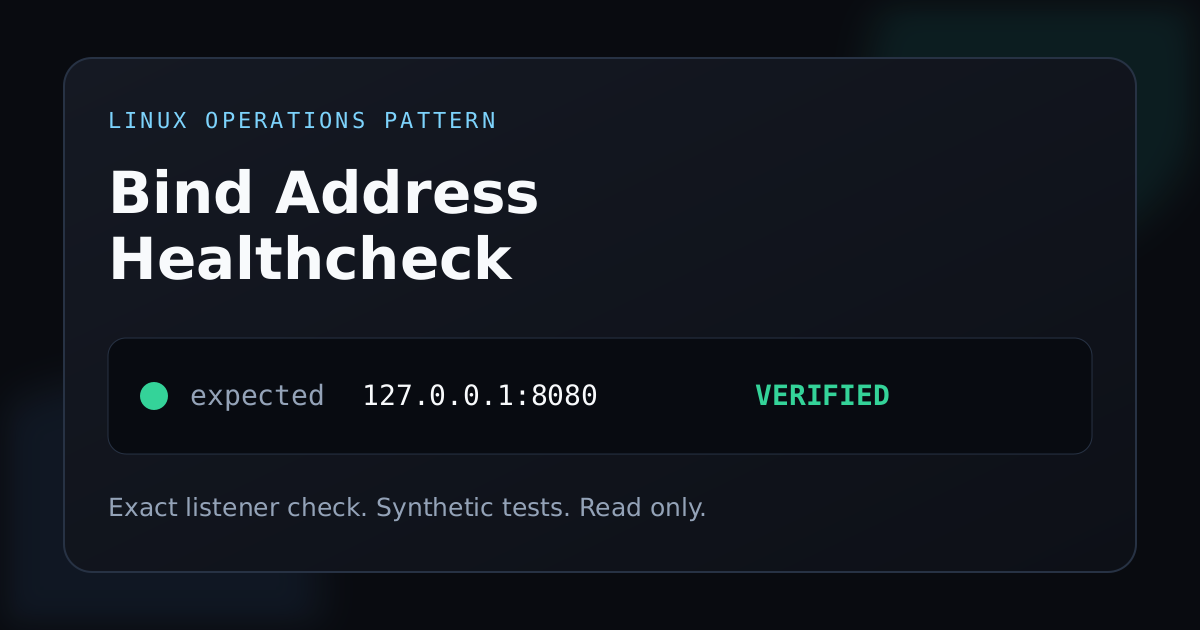
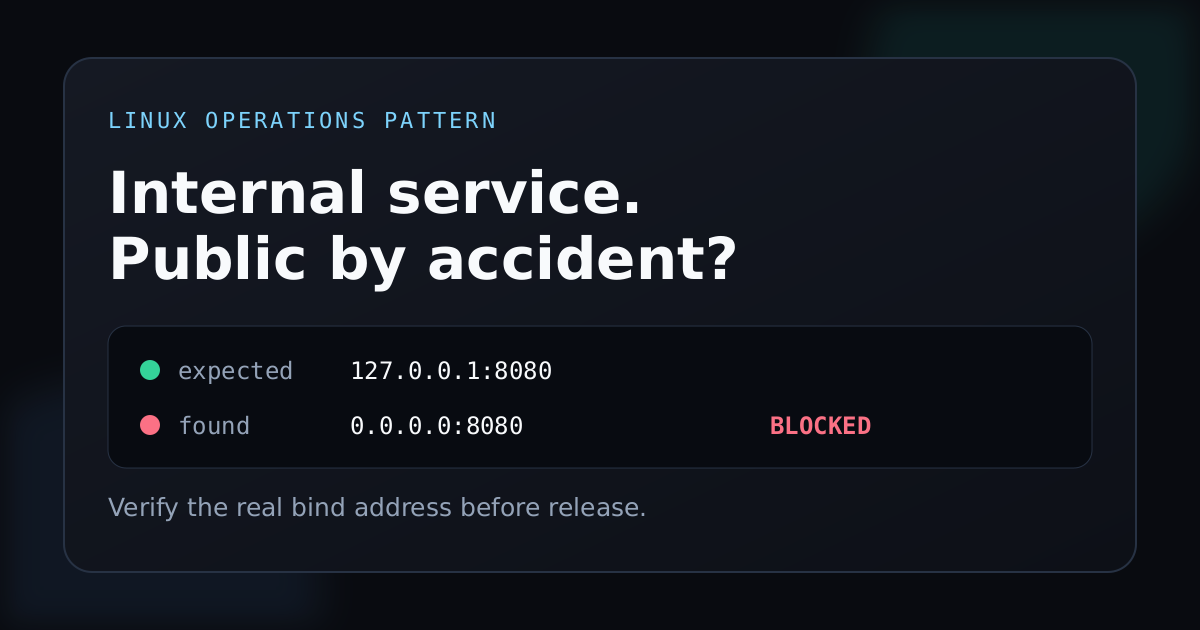
docs: explain bind risk in plain language

diff --git a/README.ru.md b/README.ru.md
@@ -1,40 +1,25 @@
-# Проверка bind address сервиса
+# Внутренний сервис случайно не открыт наружу?
 
-Проверяет, что Linux сервис слушает именно тот TCP адрес и порт, которые были запланированы.
+Небольшая проверка для Linux, которая перед запуском подтверждает фактический TCP адрес и порт сервиса.
 
 [English version](README.md)
 
-![Bind Address Healthcheck: ожидаемый localhost и подтверждённый listener](assets/social-preview.png)
+![Проверка внутреннего сервиса: ожидался локальный адрес, публичная привязка заблокирована](assets/social-preview.png)
 
-## Зачем
+## Проблема простыми словами
 
-Процесс может считаться здоровым, хотя слушает не тот интерфейс. Сервис для локального reverse proxy способен случайно открыться на `0.0.0.0`. Другой типовой сбой: приложение стартовало на соседнем порту, а поверхностный healthcheck всё равно оказался зелёным.
+Многие приложения работают за Caddy, Nginx или другим обратным прокси. Само приложение при этом должно принимать подключения только внутри сервера.
 
-`check-bind` читает таблицу TCP listeners через `ss` и завершается ошибкой, если на выбранном порту найден адрес, отличный от ожидаемого.
+| Адрес | Что это означает |
+|---|---|
+| `127.0.0.1:8080` | Подключиться могут только процессы на этом сервере. |
+| `0.0.0.0:8080` | Сервис слушает все доступные сетевые интерфейсы. |
 
-## Что входит
+В обоих случаях приложение может отвечать и считаться исправным. Поэтому обычная проверка здоровья останется зелёной, даже если сервис доступен шире, чем планировалось.
 
-1. Bash скрипт без сторонних зависимостей.
-2. Точное сравнение IPv4 и IPv6 адресов.
-3. Отдельное обнаружение wildcard и дополнительных listeners.
-4. Проверка сохранённого снимка `ss` без обращения к системе.
-5. Детерминированные тесты на синтетических данных.
+`check-bind` спрашивает ядро Linux, какой адрес действительно слушает порт. Если фактический адрес отличается от ожидаемого, проверка завершается ошибкой.
 
-## Что не входит
-
-Инструмент не проверяет ответ приложения, правила firewall, сетевые пространства контейнеров и удалённую доступность. В репозитории нет боевых доступов, клиентских данных, деталей приватной инфраструктуры и окружающей системы оркестрации.
-
-## Как это работает
-
-```mermaid
-flowchart LR
-    A[Ожидаемый адрес и порт] --> B[Чтение таблицы ss]
-    B --> C{Найден только точный listener?}
-    C -->|Да| D[Exit 0]
-    C -->|Нет| E[Exit 1 с причиной]
-```
-
-## Быстрый старт
+## Проверка за 30 секунд
 
 Нужны Linux, Bash 4 или новее и команда `ss` из пакета `iproute2`.
 
@@ -43,21 +28,46 @@ chmod +x bin/check-bind
 ./bin/check-bind --address 127.0.0.1 --port 8080
 ```
 
-Успешный результат:
+Безопасный результат:
 
 ```text
 PASS: 127.0.0.1:8080 is the only listener on TCP port 8080
 ```
 
-Случайный wildcard bind блокируется:
+Сервис слушает все интерфейсы:
 
 ```text
 FAIL: wildcard listener 0.0.0.0:8080 conflicts with expected 127.0.0.1:8080
 ```
 
-## Проверка по снимку
+## Какие ошибки обнаруживаются
 
-Режим снимка удобен для тестов и разбора инцидентов. Команда `ss` в нём не запускается.
+1. Сервис слушает `0.0.0.0` вместо локального адреса.
+2. Сервис запустился на другом порту.
+3. На том же порту появился дополнительный слушающий адрес.
+4. Фактический IPv4 или IPv6 адрес отличается от ожидаемого.
+
+## Что находится в репозитории
+
+1. Bash скрипт без сторонних зависимостей.
+2. Синтетические примеры без производственных данных.
+3. Проверка по сохранённому выводу `ss` без обращения к системе.
+4. Девять детерминированных проверок поведения и безопасности.
+5. Описанный способ удаления инструмента.
+
+## Как это работает
+
+```mermaid
+flowchart LR
+    A[Ожидаемый адрес и порт] --> B[Чтение таблицы Linux]
+    B --> C{Найден только ожидаемый адрес?}
+    C -->|Да| D[Проверка пройдена]
+    C -->|Нет| E[Ошибка с причиной]
+```
+
+## Проверка по сохранённому выводу
+
+Этот режим удобен для тестов и разбора инцидентов. Команда `ss` в нём не запускается.
 
 ```bash
 ./bin/check-bind \
@@ -68,30 +78,31 @@ FAIL: wildcard listener 0.0.0.0:8080 conflicts with expected 127.0.0.1:8080
 
 Значение `--snapshot -` читает стандартный ввод.
 
-## Тесты
+## Запуск тестов
 
 ```bash
 make test
 ```
 
-Проверяются точные IPv4 и IPv6 listeners, wildcard, другой конкретный адрес, отсутствующий порт, некорректный ввод и враждебный текст снимка.
+Тесты проверяют точные IPv4 и IPv6 адреса, прослушивание всех интерфейсов, другой конкретный адрес, отсутствующий порт, некорректный ввод и поддельный снимок с управляющим текстом.
 
 ## Коды завершения
 
 | Код | Значение |
 |---:|---|
-| `0` | На выбранном порту найден только ожидаемый listener. |
-| `1` | Listener отсутствует либо найден wildcard или дополнительный адрес. |
-| `2` | Некорректны аргументы, снимок или обязательная системная команда. |
+| `0` | На выбранном порту найден только ожидаемый адрес. |
+| `1` | Порт не слушается либо найден общий или дополнительный адрес. |
+| `2` | Некорректны аргументы, сохранённый вывод или обязательная системная команда. |
 
 ## Ограничения
 
-1. `ss` видит только текущее сетевое пространство. Для контейнера проверку следует запускать внутри нужного network namespace.
-2. Имена хостов не разрешаются. Следует передавать буквальный адрес из вывода `ss`.
+1. `ss` видит только текущее сетевое пространство. Для контейнера проверку нужно запускать внутри его пространства сети.
+2. Имена хостов не преобразуются в IP. Следует передавать буквальный адрес из вывода `ss`.
 3. UDP пока не поддерживается.
-4. Успешная проверка bind не доказывает, что приложение отдаёт правильный ответ.
+4. Успешная проверка адреса не доказывает, что приложение отдаёт правильный ответ.
+5. Инструмент дополняет настройки сетевого экрана и обратного прокси, но не заменяет их.
 
-## Откат
+## Удаление
 
 Проверка ничего не изменяет в системе. Если файл был установлен глобально, достаточно удалить его:
 
@@ -99,13 +110,13 @@ make test
 sudo rm /usr/local/bin/check-bind
 ```
 
-Удаление инструмента не меняет listeners, firewall и конфигурацию сервиса.
+Удаление инструмента не меняет сетевые подключения, правила доступа и конфигурацию сервиса.
 
 ## Граница безопасности
 
-Скрипт запускает только фиксированную команду `ss -H -ltn`. Адрес и порт валидируются до сравнения. Снимок считается данными и никогда не исполняется.
+Скрипт запускает только фиксированную команду `ss -H -ltn`. Адрес и порт валидируются до сравнения. Сохранённый вывод считается данными и никогда не исполняется.
 
-Это один слой проверки, а не доказательство полной безопасности сервера.
+В репозитории нет рабочих доступов, клиентских данных, деталей приватной инфраструктуры и окружающей системы автоматизации.
 
 Правила ответственного сообщения об уязвимости находятся в [SECURITY.md](SECURITY.md).
 

diff --git a/README.md b/README.md
@@ -1,40 +1,25 @@
-# Bind Address Healthcheck
+# Is your internal service exposed by mistake?
 
-Verify that a Linux TCP service is listening on the exact address and port you intended.
+A read only Linux check that confirms the real TCP address and port before a service goes live.
 
 [Русская версия](README.ru.md)
 
-![Bind Address Healthcheck: expected localhost, verified listener](assets/social-preview.png)
+![Internal service exposed by mistake: expected localhost, public bind blocked](assets/social-preview.png)
 
-## Why
+## The problem in plain language
 
-A process can be healthy while listening on the wrong interface. A service intended for a local reverse proxy may accidentally bind to `0.0.0.0`, or it may start on a different port while a shallow healthcheck still reports success.
+Many applications run behind Caddy, Nginx or another reverse proxy. The application is expected to accept connections only from the same server.
 
-`check-bind` reads the kernel listener table through `ss` and fails unless every listener on the selected port matches the expected address.
+| Address | What it means |
+|---|---|
+| `127.0.0.1:8080` | Only processes on this server can connect. |
+| `0.0.0.0:8080` | The service listens on every available network interface. |
 
-## What this repository includes
+Both versions can return a healthy application response. A normal healthcheck may therefore stay green even when the service is reachable more broadly than intended.
 
-1. A dependency free Bash checker for Linux.
-2. Exact IPv4 and IPv6 address matching.
-3. Explicit detection of wildcard and additional listeners.
-4. Offline verification from a saved `ss` snapshot.
-5. Deterministic tests with synthetic fixtures.
+`check-bind` asks the Linux kernel which address is actually listening. It fails when the answer differs from the expected address.
 
-## What it does not include
-
-This tool does not test application responses, firewall policy, container network namespaces or remote reachability. It contains no production credentials, customer data, private infrastructure details or surrounding orchestration.
-
-## How it works
-
-```mermaid
-flowchart LR
-    A[Expected address and port] --> B[Read ss listener table]
-    B --> C{Exact listener only?}
-    C -->|Yes| D[Exit 0]
-    C -->|No| E[Exit 1 with reason]
-```
-
-## Quick start
+## Check it in 30 seconds
 
 Requirements: Linux, Bash 4 or newer, and `ss` from `iproute2`.
 
@@ -43,21 +28,46 @@ chmod +x bin/check-bind
 ./bin/check-bind --address 127.0.0.1 --port 8080
 ```
 
-Expected result:
+Safe result:
 
 ```text
 PASS: 127.0.0.1:8080 is the only listener on TCP port 8080
 ```
 
-An accidental wildcard bind fails:
+Accidental public bind:
 
 ```text
 FAIL: wildcard listener 0.0.0.0:8080 conflicts with expected 127.0.0.1:8080
 ```
 
+## What it catches
+
+1. A service listening on `0.0.0.0` instead of localhost.
+2. A service that started on a different port.
+3. An additional listener on the same port.
+4. Exact IPv4 and IPv6 mismatches.
+
+## What this repository includes
+
+1. A dependency free Bash checker.
+2. Synthetic examples with no production data.
+3. Offline verification from a saved `ss` snapshot.
+4. Nine deterministic security and behavior checks.
+5. A documented rollback path.
+
+## How it works
+
+```mermaid
+flowchart LR
+    A[Expected address and port] --> B[Read Linux listener table]
+    B --> C{Only the expected listener?}
+    C -->|Yes| D[Pass]
+    C -->|No| E[Fail with reason]
+```
+
 ## Verify a saved snapshot
 
-The snapshot mode is useful in tests and incident notes. It never runs `ss`.
+Snapshot mode is useful in tests and incident notes. It never runs `ss`.
 
 ```bash
 ./bin/check-bind \
@@ -68,7 +78,7 @@ The snapshot mode is useful in tests and incident notes. It never runs `ss`.
 
 Use `--snapshot -` to read from standard input.
 
-## Tests
+## Run the tests
 
 ```bash
 make test
@@ -84,16 +94,17 @@ The test suite covers exact IPv4 and IPv6 listeners, wildcard exposure, a wrong 
 | `1` | No listener exists, or a wildcard or additional address was found. |
 | `2` | Arguments, snapshot input or a required command are invalid. |
 
-## Failure modes
+## Limits
 
 1. `ss` sees only the current network namespace. Run the checker inside the container or namespace that owns the service.
-2. A hostname is not resolved. Pass the literal address shown by `ss`.
+2. Hostnames are not resolved. Pass the literal address shown by `ss`.
 3. UDP is outside the current scope.
 4. A successful bind check does not prove that the application returns a valid response.
+5. This check complements firewall and reverse proxy configuration. It does not replace them.
 
 ## Rollback
 
-The checker is read only. Remove the copied file if you installed it:
+The checker is read only. If you copied it into a global location, remove that copy:
 
 ```bash
 sudo rm /usr/local/bin/check-bind
@@ -105,7 +116,7 @@ Removing the checker does not alter listeners, firewall rules or service configu
 
 The script executes only the fixed command `ss -H -ltn`. Addresses and ports are validated before comparison. Snapshot content is treated as data and is never evaluated or executed.
 
-Use this as one verification layer, not as proof that a host is secure.
+This repository contains no production credentials, customer data, private infrastructure details or surrounding orchestration.
 
 See [SECURITY.md](SECURITY.md) for responsible reporting.
 

diff --git a/CHANGELOG.md b/CHANGELOG.md
@@ -1,5 +1,12 @@
 # Changelog
 
+## 0.1.1
+
+1. Reframed the documentation around the practical exposure risk.
+2. Added a plain language explanation before the technical mechanism.
+3. Reworked the social image for faster recognition.
+4. Kept the checker behavior unchanged.
+
 ## 0.1.0
 
 Initial public release.
